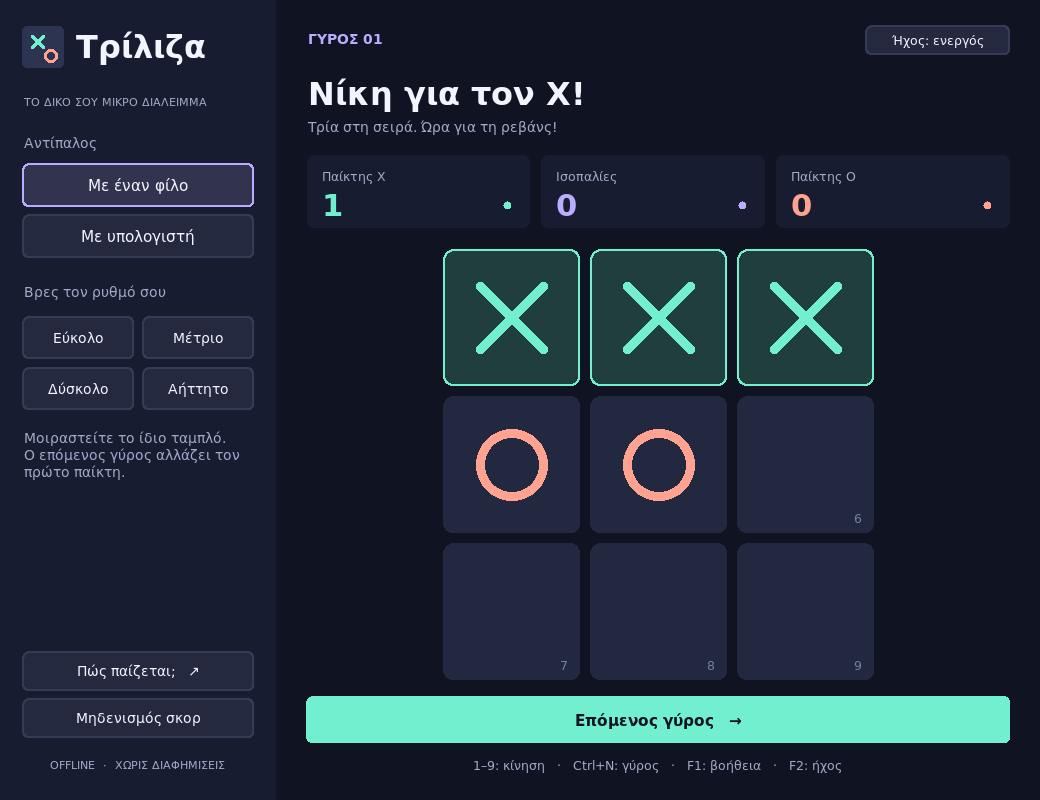
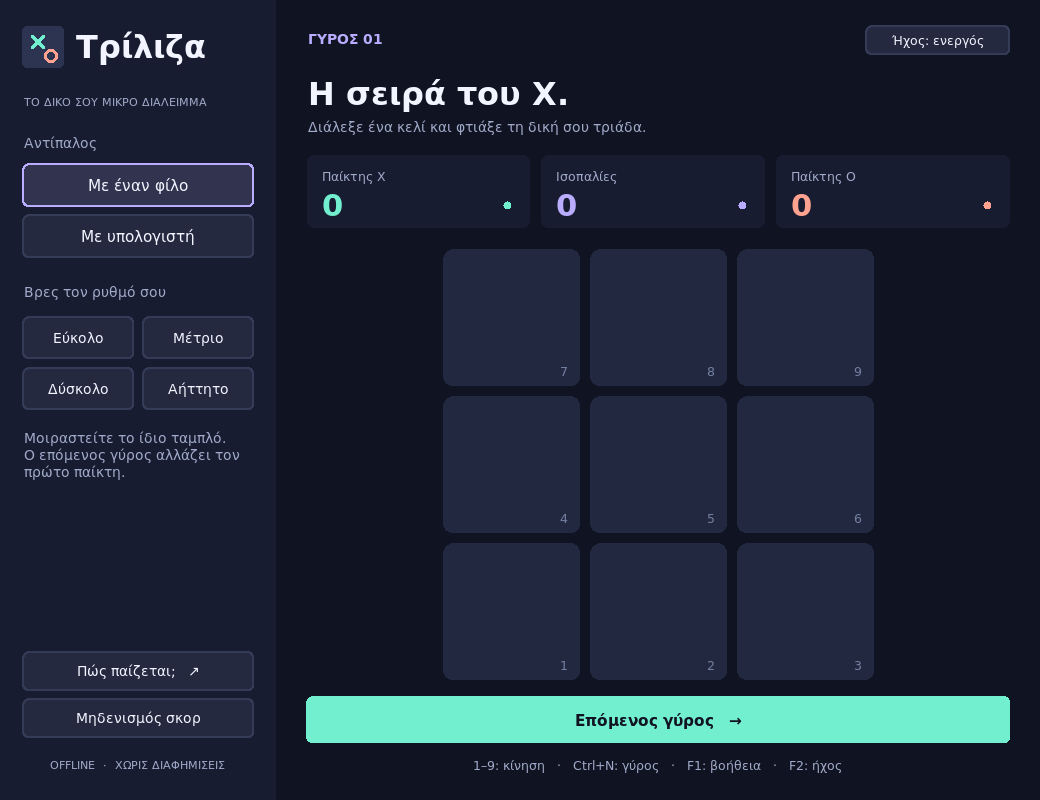
Match board numbering and input to numeric keypad layout

diff --git a/game.py b/game.py
@@ -5,6 +5,7 @@ import tkinter as tk
 from tkinter import font as tkfont, messagebox
 
 from engine import Match, choose_move, winning_line
+from controls import cell_for_key
 from sounds import SoundPlayer
 from version import VERSION
 from ui import ActionButton, BoardCell, ScoreCard, rounded, BG, PANEL, TEXT, MUTED, TEAL, CORAL, PURPLE
@@ -278,8 +279,9 @@ class TicTacToe(tk.Tk):
         self._reset_session()
 
     def _key_move(self, event):
-        if event.char and event.char in '123456789':
-            self.handle_click(int(event.char)-1)
+        cell = cell_for_key(event.char, event.keysym)
+        if cell is not None:
+            self.handle_click(cell)
 
     def show_help(self):
         popup = tk.Toplevel(self)
@@ -299,7 +301,8 @@ class TicTacToe(tk.Tk):
             'Μέτριο  /  Βλέπει απειλές, αλλά αφήνει ανοίγματα.\n'
             'Δύσκολο  /  Σκέφτεται στρατηγικά, αλλά μπορείς να το κερδίσεις.\n'
             'Αήττητο  /  Το καλύτερο δυνατό αποτέλεσμα είναι ισοπαλία.\n\n'
-            '1–9: κίνηση, από πάνω αριστερά προς κάτω δεξιά.\n'
+            'Αριθμητικό πληκτρολόγιο (Num Lock ενεργό):\n'
+            '7 8 9: πάνω σειρά · 4 5 6: μέση σειρά · 1 2 3: κάτω σειρά.\n'
             'Tab και Space/Enter: επιλογή και ενεργοποίηση κουμπιών.\n'
             'Ctrl+N: νέος γύρος. F1: βοήθεια.\n\n'
             'Ήχοι: κουμπί πάνω δεξιά ή F2 για σίγαση/ενεργοποίηση.\n\n'

diff --git a/tests/test_gui.py b/tests/test_gui.py
@@ -122,7 +122,32 @@ class DesktopTests(unittest.TestCase):
         self.assertEqual(self.app.match.board[1], 'O')
         self.app.event_generate('<KeyPress-3>')
         self.app.update()
-        self.assertEqual(self.app.match.board[2], 'X')
+        self.assertEqual(self.app.match.board[8], 'X')
+
+    def test_number_keys_follow_numeric_keypad_layout(self):
+        self.app.focus_force()
+        self.app.update()
+        for prefix in ('', 'KP_'):
+            for key, cell in (('7', 0), ('8', 1), ('9', 2), ('4', 3), ('5', 4),
+                              ('6', 5), ('1', 6), ('2', 7), ('3', 8)):
+                with self.subTest(key=prefix+key):
+                    self.app._reset_session()
+                    self.app.event_generate(f'<KeyPress-{prefix}{key}>', state=0x10)
+                    self.app.update()
+                    self.assertEqual(self.app.match.board[cell], 'X')
+                    self.assertEqual(self.app.match.board.count('X'), 1)
+
+    def test_empty_tiles_display_matching_numeric_keypad_labels(self):
+        # Read the actual canvas labels, including after a resize/reset redraw.
+        self.app.geometry('860x660')
+        self.app.update()
+        for cell, expected in enumerate(('7', '8', '9', '4', '5', '6', '1', '2', '3')):
+            tile = self.app.buttons[cell]
+            tile.hovered = False
+            tile.draw()
+            labels = [tile.itemcget(item, 'text') for item in tile.find_all()
+                      if tile.type(item) == 'text']
+            self.assertEqual(labels, [expected])
 
     def test_small_window_preserves_playable_board_and_controls(self):
         self.app.geometry('860x660')

diff --git a/main.py b/main.py
@@ -17,9 +17,14 @@ def smoke_test(report_path):
         app = TicTacToe()
         app.sounds.set_enabled(False)
         app.update()
-        for cell in (0, 3, 1, 4, 2):
-            app.buttons[cell].invoke()
+        app.focus_force()
         app.update()
+        for key, cell, symbol in (('7', 0, 'X'), ('4', 3, 'O'), ('8', 1, 'X'),
+                                  ('5', 4, 'O'), ('9', 2, 'X')):
+            # Tk's modifier bit 0x10 represents Num Lock for keypad digits.
+            app.event_generate(f'<KeyPress-KP_{key}>', state=0x10)
+            app.update()
+            assert app.match.board[cell] == symbol
         assert app.match.outcome == 'X' and app.scores['X'] == 1
         assert all(button['state'] == 'disabled' for button in app.buttons.values())
         assert sum(button.winning for button in app.buttons.values()) == 3
@@ -29,7 +34,7 @@ def smoke_test(report_path):
             with wave.open(str(app.sounds.asset_dir / f'{name}.wav'), 'rb') as sound:
                 assert sound.getnframes() > 0 and sound.getnchannels() == 1
         assert 'lose' in SOUND_NAMES
-        result.update(ok=True, sounds_bundled=True, loss_sound_bundled=True)
+        result.update(ok=True, sounds_bundled=True, loss_sound_bundled=True, keypad_verified=True)
     except Exception as error:
         result['error'] = f'{type(error).__name__}: {error}'
     finally:

diff --git a/tests/test_controls.py b/tests/test_controls.py
@@ -1,0 +1,20 @@
+"""Numeric keypad input works for both OS digit events and explicit KP events."""
+import unittest
+
+from controls import cell_for_key
+
+
+class KeypadTests(unittest.TestCase):
+    def test_keypad_digit_events(self):
+        for key, cell in (('7', 0), ('8', 1), ('9', 2), ('4', 3), ('5', 4),
+                          ('6', 5), ('1', 6), ('2', 7), ('3', 8)):
+            with self.subTest(key=key):
+                self.assertEqual(cell_for_key(key, f'KP_{key}'), cell)
+                self.assertEqual(cell_for_key('', f'KP_{key}'), cell)
+
+    def test_unrelated_keys_do_not_play_a_cell(self):
+        for character, keysym in (('', ''), ('0', 'KP_0'), ('.', 'KP_Decimal'),
+                                  ('', 'KP_Home'), ('', 'Home'), ('', 'F2'),
+                                  ('', 'Up'), ('a', 'a')):
+            with self.subTest(keysym=keysym):
+                self.assertIsNone(cell_for_key(character, keysym))

diff --git a/ui.py b/ui.py
@@ -1,5 +1,6 @@
 """Small, dependency-free canvas controls for the desktop interface."""
 import tkinter as tk
+from controls import CELL_KEYS
 
 BG = '#101321'
 PANEL = '#181c30'
@@ -136,7 +137,7 @@ class BoardCell(tk.Canvas):
         rounded(self, 3, 3, width-3, height-3, 22, fill=fill, outline=outline, width=2)
         symbol = self.symbol or (self.preview if hovered else '')
         if not symbol:
-            self.create_text(width-18, height-17, text=str(self.index+1),
+            self.create_text(width-18, height-17, text=CELL_KEYS[self.index],
                              fill='#737f9f', font=(self.family, 9))
             return
         color = TEAL if symbol == 'X' else CORAL

diff --git a/controls.py b/controls.py
@@ -1,0 +1,13 @@
+"""Shared board labels and numeric-keyboard input mapping."""
+
+CELL_KEYS = ('7', '8', '9', '4', '5', '6', '1', '2', '3')
+KEY_TO_CELL = {key: cell for cell, key in enumerate(CELL_KEYS)}
+
+
+def cell_for_key(character, keysym=''):
+    """Accept digits from the number row or a numeric keypad (Num Lock on)."""
+    if character in KEY_TO_CELL:
+        return KEY_TO_CELL[character]
+    if keysym.startswith('KP_'):
+        return KEY_TO_CELL.get(keysym[3:])
+    return None

diff --git a/README.md b/README.md
@@ -1,4 +1,4 @@
-# Τρίλιζα · 1.3.1
+# Τρίλιζα · 1.3.2
 
 Εφαρμογή για υπολογιστή με ελληνικό περιβάλλον. Δύο παίκτες στον ίδιο υπολογιστή
 ή αντίπαλος με τέσσερα επίπεδα: εύκολο, μέτριο, δύσκολο και αήττητο.
@@ -17,7 +17,7 @@
 ## Εγκατάσταση Windows — χωρίς Python
 
 1. Άνοιξε τις [εκδόσεις του παιχνιδιού](https://github.com/NaelCh/Tic-Tac-Toe-GUI/releases/latest).
-2. Από τα Assets κατέβασε το `Triliza-1.3.1-Windows-Setup.exe`.
+2. Από τα Assets κατέβασε το `Triliza-1.3.2-Windows-Setup.exe`.
 3. Άνοιξε τον εγκαταστάτη και επίλεξε Install.
 4. Παίξε από τη συντόμευση «Τρίλιζα» στο μενού Έναρξη.
 
@@ -26,6 +26,7 @@ Python/Tk, εικονίδιο και ήχους· ο παραλήπτης δεν
 Εγκαθίσταται για τον τρέχοντα χρήστη, χωρίς δικαιώματα διαχειριστή.
 Υποστηρίζει Windows 10/11 με x64. Περιλαμβάνει απεγκατάσταση από τις εφαρμογές
 των Windows και προαιρετική συντόμευση στην επιφάνεια εργασίας.
+Η τρέχουσα έκδοση δεν υποστηρίζει Windows 7.
 
 Ο εγκαταστάτης δεν είναι ψηφιακά υπογεγραμμένος. Για επαγγελματική διανομή,
 η υπογραφή κώδικα απαιτεί πιστοποιητικό του εκδότη.
@@ -71,7 +72,16 @@ python main.py
 
 - Επίλεξε φίλο ή υπολογιστή από το πλευρικό μενού και μετά επίπεδο δυσκολίας.
   Με υπολογιστή παίζεις πάντα X.
-- Κάνε κλικ σε κελί ή πάτησε 1–9: από πάνω αριστερά προς κάτω δεξιά.
+- Κάνε κλικ σε κελί ή χρησιμοποίησε την αρίθμηση του αριθμητικού πληκτρολογίου
+  (Num Lock ενεργό). Λειτουργούν επίσης τα ψηφία της επάνω σειράς πλήκτρων:
+
+  ```text
+  7  8  9
+  4  5  6
+  1  2  3
+  ```
+
+  Το 7 αντιστοιχεί στο πάνω αριστερό κελί, το 5 στο κέντρο και το 3 στο κάτω δεξί.
 - Τρία ίδια σύμβολα στη σειρά, στήλη ή διαγώνιο κερδίζουν.
 - Το «Επόμενος γύρος» εναλλάσσει τον πρώτο παίκτη. Ctrl+N κάνει το ίδιο.
 - F1 εμφανίζει βοήθεια. Tab και Space/Enter επιτρέπουν χειρισμό κουμπιών.
@@ -107,9 +117,11 @@ xvfb-run -a python -m unittest discover -s tests -v
 εγκατάσταση, εκκινεί το εγκατεστημένο παιχνίδι με Python εκτός PATH και ελέγχει
 νικηφόρα παρτίδα, Reset και ενσωματωμένους ήχους. Απεγκαθιστά το παιχνίδι και
 δημοσιεύει το Setup.exe και SHA256 μόνο εφόσον ολοκληρωθούν οι έλεγχοι.
+Ελέγχει επίσης αναβάθμιση από την 1.3.1 χωρίς απεγκατάσταση και νικηφόρα
+παρτίδα με συμβάντα αριθμητικού πληκτρολογίου στο εγκατεστημένο εκτελέσιμο.
 
 Για επόμενη έκδοση, άλλαξε το `VERSION`, κάνε commit/push και δημιούργησε το
-αντίστοιχο tag, π.χ. `v1.3.1`. Το tag πρέπει να συμφωνεί ακριβώς με το VERSION.
+αντίστοιχο tag, π.χ. `v1.3.2`. Το tag πρέπει να συμφωνεί ακριβώς με το VERSION.
 Χειροκίνητη εκτέλεση από το Actions δημιουργεί downloadable artifact χωρίς Release.
 
 Στο λειτουργικό σύστημα προορισμού, με Python/Tkinter:
@@ -123,7 +135,7 @@ python -m venv .venv
 .venv\Scripts\python -m pip install -r requirements-build.txt
 .venv\Scripts\python tools\build.py
 # Windows: μετά το build, με Inno Setup 6:
-ISCC.exe /DAppVersion=1.3.1 installer\windows.iss
+ISCC.exe /DAppVersion=1.3.2 installer\windows.iss
 ```
 
 Παραδίδεις ολόκληρο τον φάκελο `dist/Triliza`, μαζί με το `_internal`.
